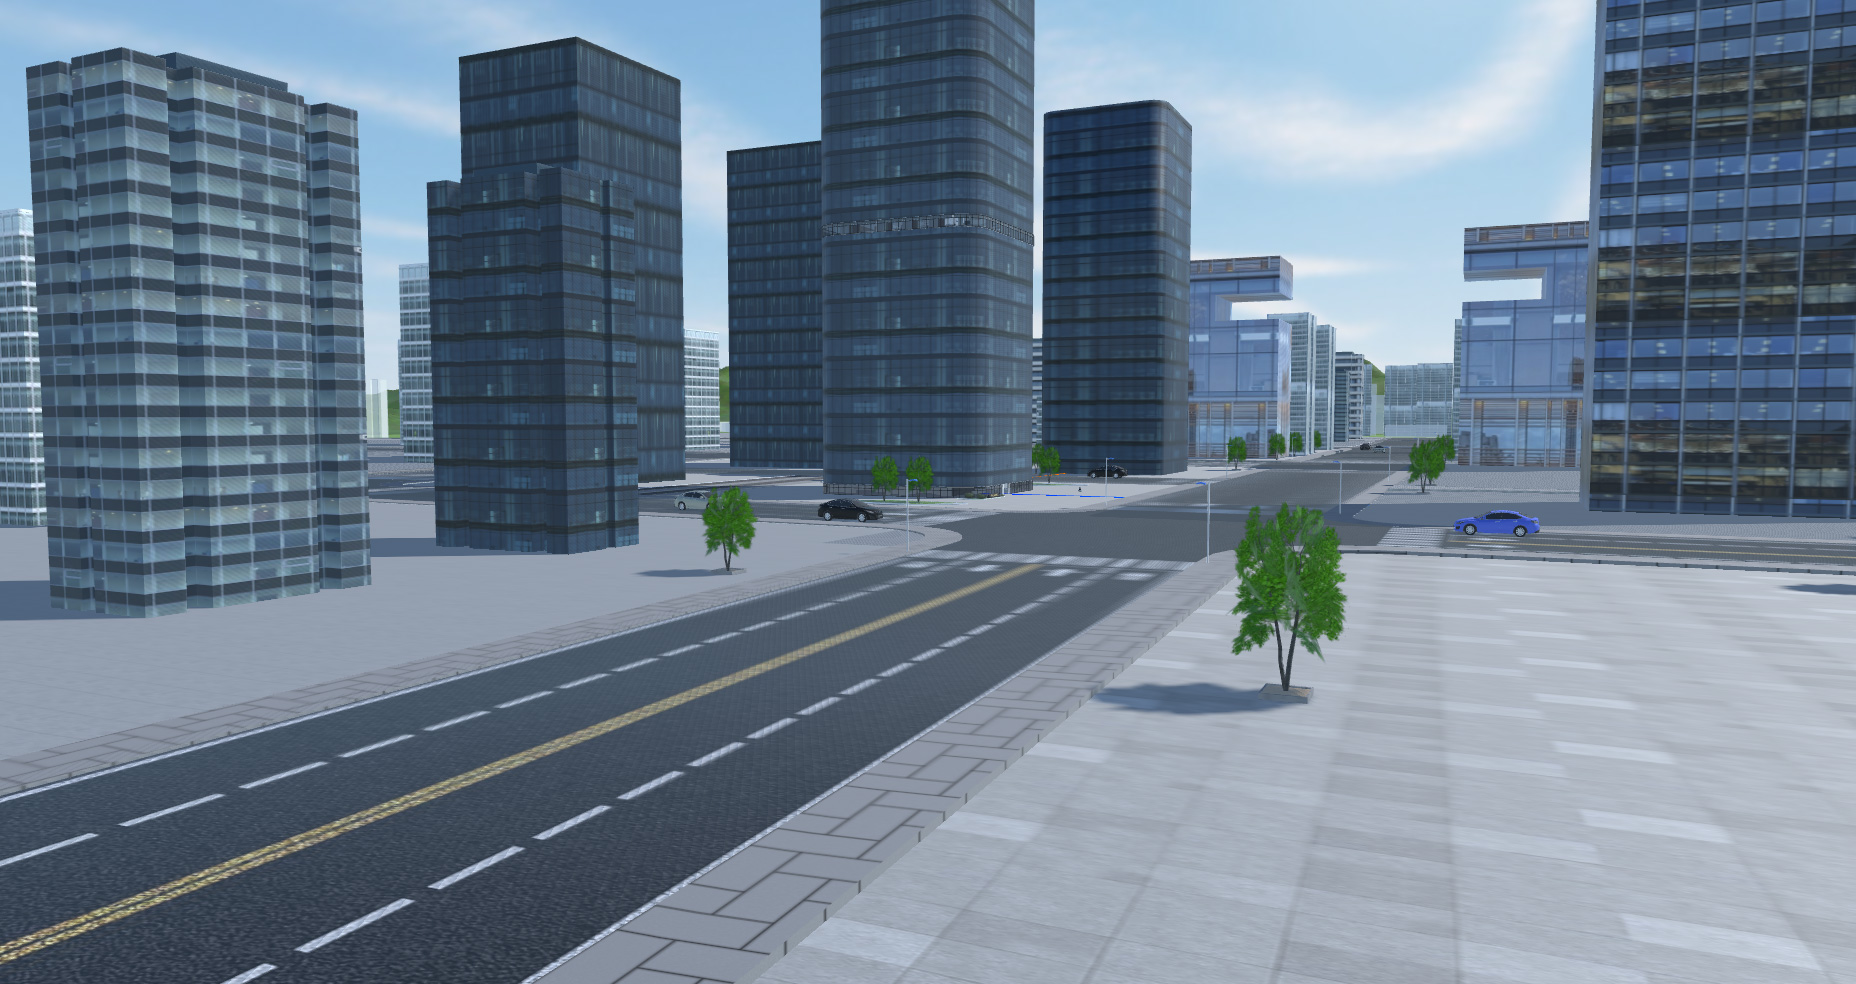
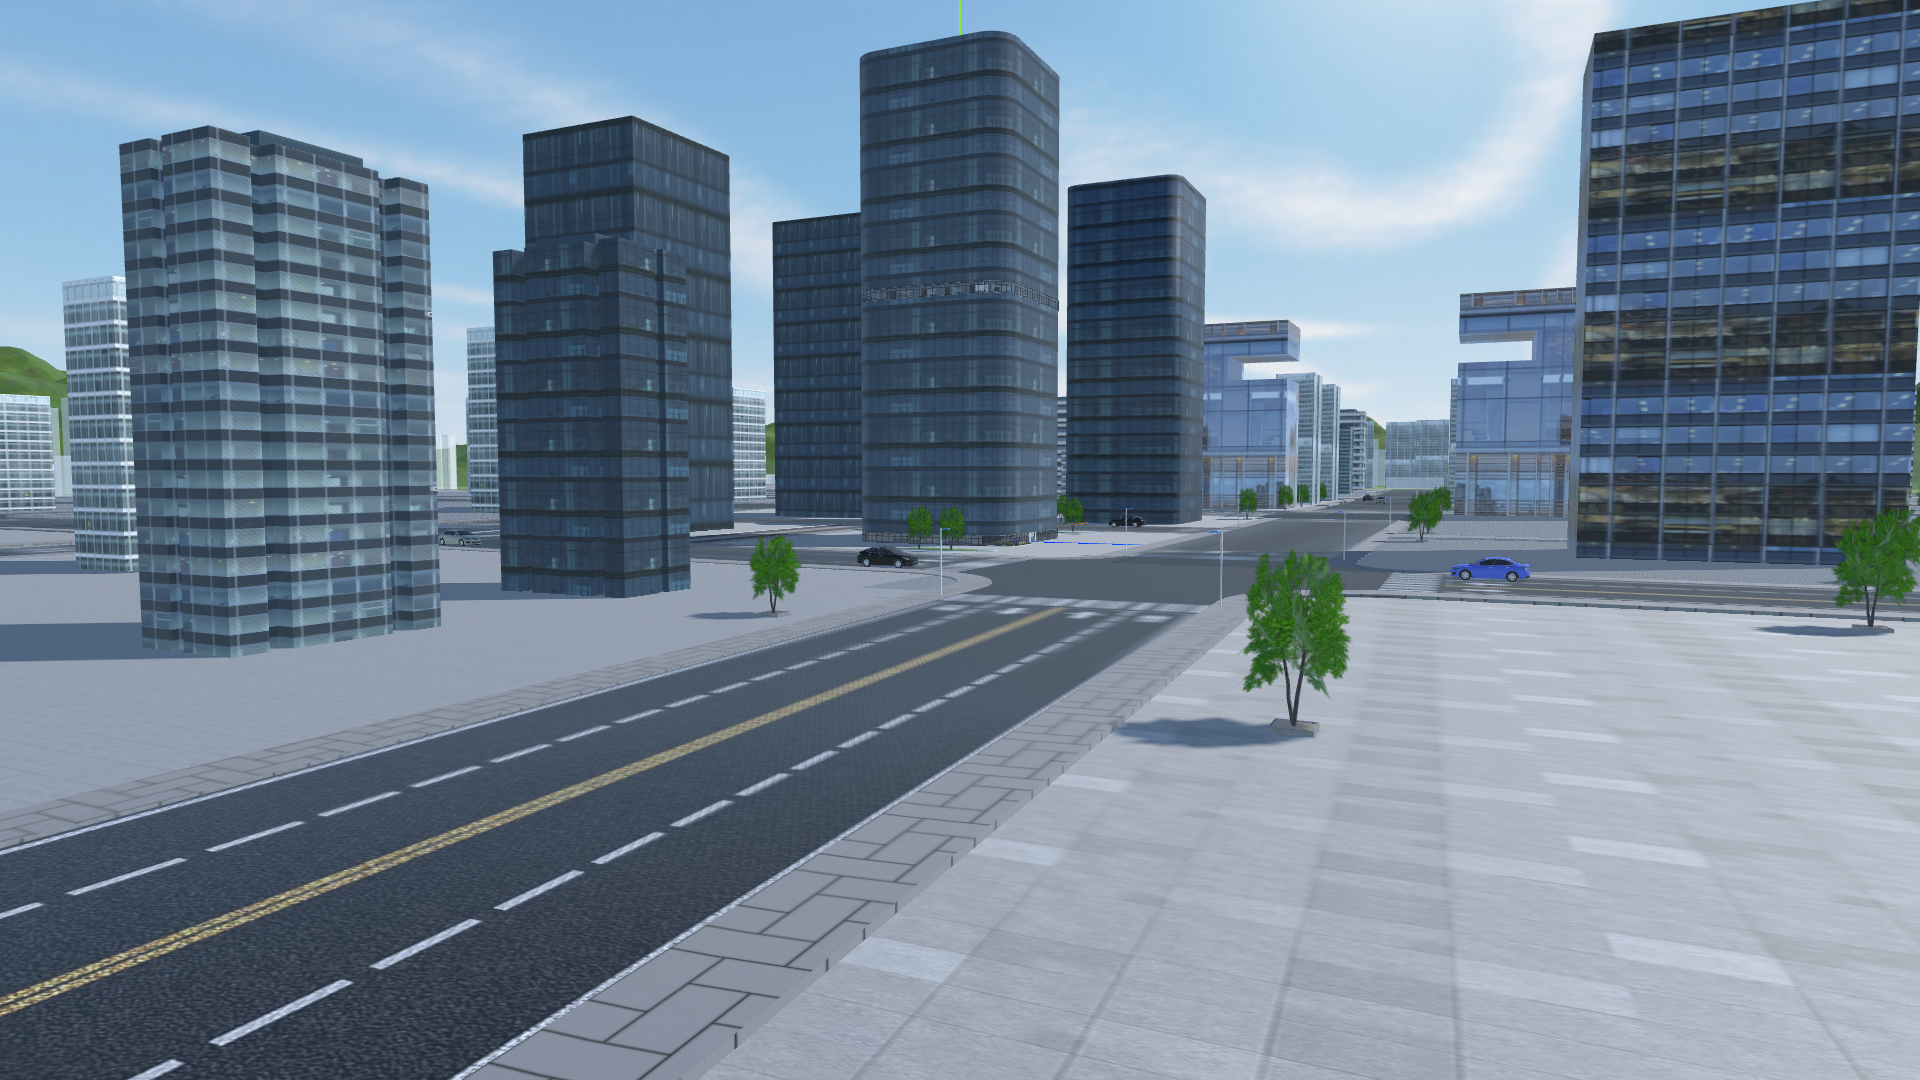
fix:视角角度调整,机位坐标,漫游坐标

diff --git a/code/src/pages/webgpu/scene/office/class.ts b/code/src/pages/webgpu/scene/office/class.ts
@@ -440,8 +440,8 @@ export class OfficeScene extends ThreeScene.Scene {
   }
   // 添加 hover 模型
   addHover(model) {
-    const obj = MS.convertHoverMaterial(model)
-    this.hoverGroup?.add(obj)
+    const list = MS.convertHoverMaterial(model)
+    this.hoverGroup?.add(...list)
   }
   // hover 重置
   resetHover() {
@@ -804,6 +804,8 @@ export class OfficeScene extends ThreeScene.Scene {
       : this.controlCache.maxDistance
     this.controls.screenSpacePanning = !isPerson
     this.controls.enablePan = !isPerson
+    // 第一人称则隐藏人物
+    this.person && (this.person.visible = !isPersonFirst)
   }
   // 人物视角
   isPersonSight() {
@@ -829,6 +831,8 @@ export class OfficeScene extends ThreeScene.Scene {
       this.person.__runing__ = false
       this.diffusion.visible = false
     }
+    // 显示人物
+    this.person && (this.person.visible = true)
     this.togglePersonView()
   }
   // 机位切换
@@ -1009,7 +1013,7 @@ export class OfficeScene extends ThreeScene.Scene {
   getBridStatus() {
     const name = DEFAULTCONFIG.companyModelName
     const model = this.buildingGroup?.getObjectByName(name) as ThreeModelItem
-    return model.__isFocus__
+    return model?.__isFocus__
   }
   // 关闭虚化
   closeVirtualization() {
@@ -1175,10 +1179,10 @@ export class OfficeScene extends ThreeScene.Scene {
     this.controls.maxDistance = DEFAULTCONFIG.cameraMaxDistance.roam
     createRoam({
       points,
-      segment: 6,
+      segment: 12,
       tension: 0,
       speed: 2,
-      close: false,
+      close: !false,
       factor: 1
     })
     roamPlay()
@@ -1276,15 +1280,22 @@ export class OfficeScene extends ThreeScene.Scene {
   checkIntersectObjects(e: PointerEvent) {
     let isClick = e.type == 'pointerdown' || e.type == 'pointerup'
 
+    // 控制最大距离
     const maxDistance = this.controls?.maxDistance || 0
     const hoverDistance = DEFAULTCONFIG.hoverDistance
+    // 跳转鸟瞰网格名称
+    const toBridMeshName = DEFAULTCONFIG.toBridMeshName
 
     let objects: any[] = []
     // 悬浮组距离 且控制器激活状态
     const isHoverGroupDistance = maxDistance > hoverDistance.empty && this.controls?.enabled
     // 空组
     if (isHoverGroupDistance) {
-      objects = this.hoverGroup?.children || []
+      // 鸟瞰视角
+      const isBridSight = this.getBridStatus()
+      objects = (this.hoverGroup?.children || []).filter(
+        el => !isBridSight || (isBridSight && el.name != toBridMeshName)
+      )
     } else {
       // 锚点或者地面
       objects =
@@ -1320,13 +1331,18 @@ export class OfficeScene extends ThreeScene.Scene {
       const object = intersct.object
       console.log(intersct)
       if (isHoverGroupDistance) {
-        const object = intersct.object
+        // 查找相机切换对应对象
         const obj = DEFAULTCONFIG.cameraTransitionList.find(
           it => it.name + DEFAULTCONFIG.hoverNameSuffix === object.name
         )
-        if (!obj) return
         object.visible = false
-        this.cameraTransition({ data: obj })
+        if (!obj) {
+          if (object.name === toBridMeshName) {
+            this.toggleBridCompany()
+          }
+        } else {
+          this.cameraTransition({ data: obj })
+        }
         return
       }
 

diff --git a/code/src/pages/webgpu/scene/office/config.ts b/code/src/pages/webgpu/scene/office/config.ts
@@ -161,8 +161,8 @@ export default {
     },
     {
       name: '办公',
-      to: { x: -38, y: 188, z: 35.3 },
-      target: { x: -35.4, y: 188, z: 36.4 }
+      to: { x: -29.82, y: 188, z: 41.52 },
+      target: { x: -25.43, y: 188, z: 43.88 }
     },
     {
       name: '总裁',
@@ -176,8 +176,8 @@ export default {
     },
     {
       name: '人事部',
-      to: { x: -32.4, y: 188, z: 35.9 },
-      target: { x: -31.4, y: 188, z: 33.2 }
+      to: { x: -16.35, y: 188, z: 32.75 },
+      target: { x: -19.02, y: 188, z: 29.2 }
     },
     {
       name: '小会议室',
@@ -186,12 +186,12 @@ export default {
     },
     {
       name: '研发及商务',
-      to: { x: 71.2, y: 188, z: 41.9 },
+      to: { x: 70.5, y: 188, z: 42.16 },
       target: { x: 68.9, y: 188, z: 43.1 }
     },
     {
       name: '陈总办公室',
-      to: { x: -40.8, y: 188, z: 26.8 },
+      to: { x: -41.79, y: 188, z: 27.52 },
       target: { x: -43.1, y: 188, z: 29.4 }
     },
     {
@@ -201,7 +201,7 @@ export default {
     },
     {
       name: '财务部',
-      to: { x: -41.7, y: 188, z: -15 },
+      to: { x: -42.57, y: 188, z: -13.37 },
       target: { x: -43.2, y: 188, z: -12.2 }
     },
     {
@@ -211,22 +211,22 @@ export default {
     },
     {
       name: '大洽谈室',
-      to: { x: 54.14, y: 188, z: 30.5 },
+      to: { x: 56.14, y: 188, z: 30.42 },
       target: { x: 59.1, y: 188, z: 30.3 }
     },
     {
       name: '程总办公室',
-      to: { x: 55.4, y: 188, z: 23.4 },
+      to: { x: 56.57, y: 188, z: 23.3 },
       target: { x: 58.4, y: 188, z: 21.8 }
     },
     {
       name: '茶室',
-      to: { x: 44, y: 188, z: 1.7 },
+      to: { x: 42.8, y: 188, z: 3.27 },
       target: { x: 42, y: 188, z: 4.3 }
     },
     {
       name: '洽谈室一',
-      to: { x: -13.1, y: 188, z: -26.7 },
+      to: { x: -14.47, y: 188, z: -25.92 },
       target: { x: -16.8, y: 188, z: -24.6 }
     },
     {
@@ -245,7 +245,7 @@ export default {
   // 相机转场视角最大值
   cameraMaxDistance: {
     indoor: 5, // 室内
-    roam: 5, // 漫游
+    roam: 1, // 漫游
     threePerson: 8 // 第三人称
   },
 

diff --git a/code/src/config/mock/d3/office.ts b/code/src/config/mock/d3/office.ts
@@ -722,11 +722,6 @@ export default [
           to: { x: -799.2, y: 55, z: 376.3 },
 
           cruise: [
-            // [-120, 0.1, 101],
-            // [139, 0.1, 101],
-            // [139, 0.1, -122],
-            // [-120, 0.1, -122]
-
             // 起点前台
             [15.78, 184.63, 43],
             [-37.53, 184.63, 43],
@@ -750,25 +745,32 @@ export default [
           ],
 
           roamPoints: [
-            [14.4, 188, 14.77],
-            [14.4, 188, 41.7],
-            [-36.4, 188, 39.9],
-            [-36.4, 188, -29.5],
+            [16, 188, 33.68],
+            [16, 188, 53],
 
-            [-36.4, 188, 39.9],
-            [14.4, 188, 41.7],
-            [51, 188, 39.9],
-            [51, 188, -26.5]
-
-            // [1.7, -1.4, 51.3],
-            // [80.5, 72.6, 75],
-            // [87, 160, -72.4],
-            // [13.2, 186, -72.4],
-            // [13.2, 186, -61.3],
-            // [52, 186, -28.2],
-            // [52, 186, 42.7],
-            // [-36.4, 186, 40],
-            // [-38.2, 186, -26.8]
+            // 大会议室门前
+            [-18.74, 188, 53],
+            [-36.7, 188, 35.3],
+            // 人事区域
+            [-18.87, 188, 20.05],
+            [-18.87, 188, -8.82],
+            [-36.05, 188, -8.82],
+            [-36.05, 188, 15],
+            // 陈总办公室门口
+            [-36.05, 188, 41.26],
+            [-10.05, 188, 41.26],
+            [15.05, 188, 41.26],
+            // 大屏角落
+            [47.87, 188, 41.26],
+            [47.87, 188, 9.62],
+            [53.29, 188, 9.62],
+            // 研发
+            [53.29, 188, 24],
+            [53.29, 188, 57.15],
+            // 沙发
+            [39, 188, 47.95],
+            // 主机
+            [25.78, 188, 56.1]
           ]
         }
       })

diff --git a/code/src/pages/webgpu/scene/office/methods.ts b/code/src/pages/webgpu/scene/office/methods.ts
@@ -651,7 +651,7 @@ export const convertHoverMaterial = model => {
   const selectObject = DEFAULTCONFIG.selectObject
   const material = new THREE.MeshBasicNodeMaterial({
     transparent: true,
-    opacity: 0.2,
+    opacity: 0.15,
     color: selectObject.color
   })
   material.mrtNode = THREE.TSL.mrt({
@@ -662,13 +662,15 @@ export const convertHoverMaterial = model => {
     model.material = material
     model.visible = false
   }
+  const list: any[] = []
   model.traverse(el => {
     if (el.isMesh) {
       el.material = material
       el.visible = false
+      list.push(el)
     }
   })
-  return model
+  return list
 }
 
 /**

diff --git a/code/src/pages/webgpu/scene/office/index.vue b/code/src/pages/webgpu/scene/office/index.vue
@@ -110,8 +110,8 @@ const options: ConstructorParameters<typeof OfficeScene>[0] = {
     maxDistance: 1500
   },
   camera: {
-    near: 3,
-    fov: 45,
+    near: 0.01,
+    fov: 52,
     position: [-799.2, 55, 376.3]
   },
   ambientLight: {

diff --git a/code/src/pages/webgpu/scene/office/data.ts b/code/src/pages/webgpu/scene/office/data.ts
@@ -65,7 +65,6 @@ export const getPageOpts = (): {
     mapSpeed: 0.02,
     points: [],
     close: !false,
-    // offset: 5.2,
     offset: 3.5,
     bloomIntensity: 0.1
   },
